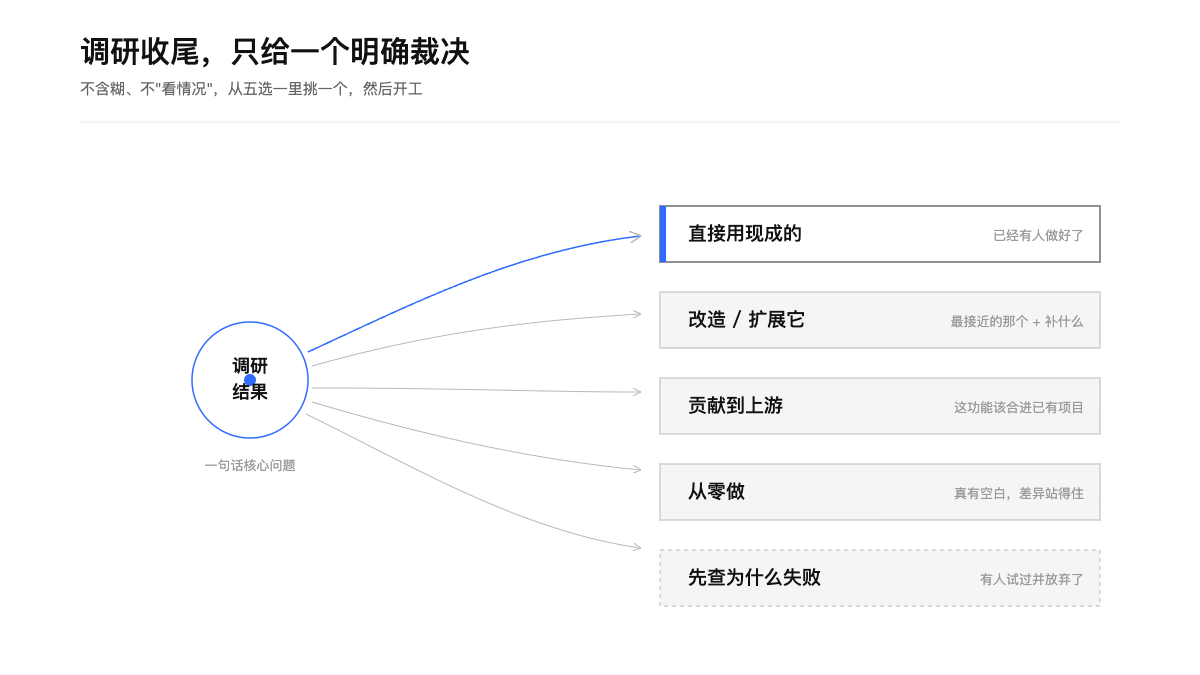
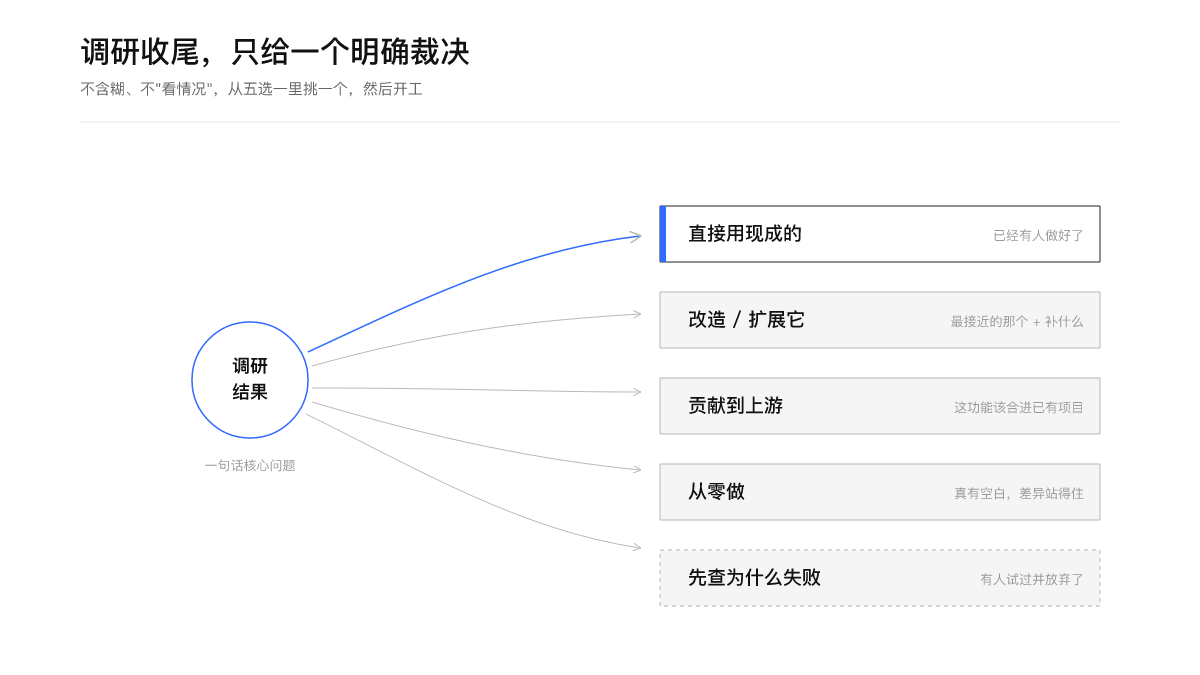
Polish boards: remove redundant center dot overlapping node labels
The blue ring already marks the focal node; the extra center dot
collided with the label text and read as clutter. Cache-bust README refs.

diff --git a/README.md b/README.md
@@ -78,7 +78,7 @@
 
 ### 只给一个明确裁决
 
-<p align="center"><img src="assets/boards/04-verdicts.png" alt="五种裁决" width="900" /></p>
+<p align="center"><img src="assets/boards/04-verdicts.png?v=2" alt="五种裁决" width="900" /></p>
 
 不含糊、不"看情况"。从五个里挑一个，附一句理由和下一步：
 
